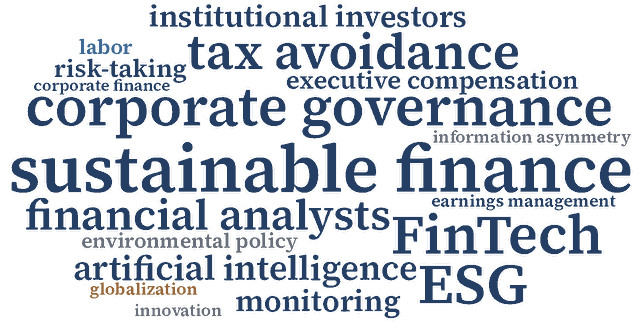
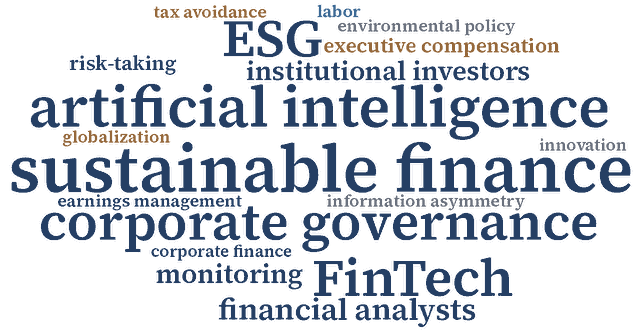
Word cloud: AI larger, tax avoidance smaller (Jonas)
Claude-Session: https://claude.ai/code/session_014YYKWAH9PBppTviVAHAJJX

Changed region(s): [[0.0312, 0.0, 1.0, 0.4532], [0.0312, 0.574, 0.9688, 0.997]]

diff --git a/tools/word_cloud.py b/tools/word_cloud.py
@@ -23,8 +23,8 @@ MERGE = {'analyst coverage':'financial analysts','forecast quality':'financial a
  'risk-taking incentives':'risk-taking','labor unions':'labor','unionization elections':'labor','minimum wages':'labor','labor market policy':'labor',
  'carbon credits':'carbon markets','voluntary carbon market':'carbon markets','china':'China','board structure':'corporate governance',
  'outside directors':'corporate governance'}
-BOOST = {'sustainable finance':7,'FinTech':3,'artificial intelligence':2,'corporate governance':3,'ESG':3,'corporate finance':2}
-FIXED = {'China':1}
+BOOST = {'sustainable finance':7,'FinTech':3,'artificial intelligence':4,'corporate governance':3,'ESG':3,'corporate finance':2}
+FIXED = {'China':1, 'tax avoidance':2}  # Jonas: China small; AI larger, tax avoidance smaller (15 Nov 2026)
 
 def frequencies():
     c = Counter()
